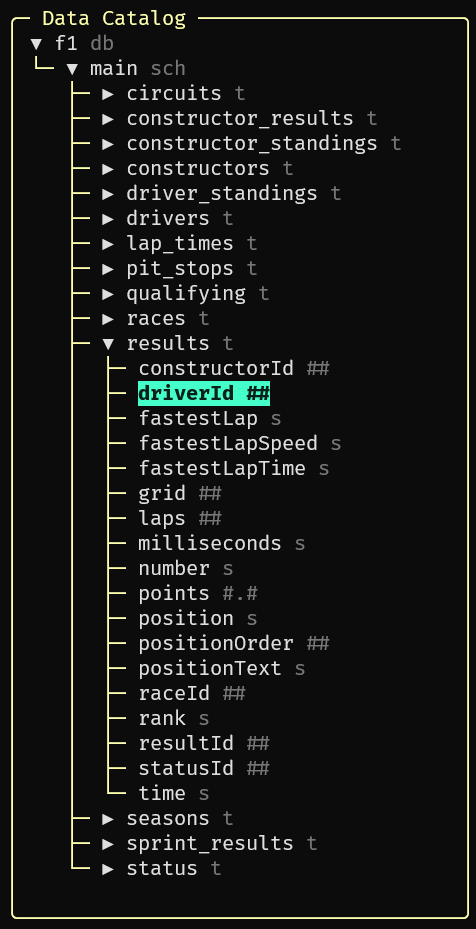
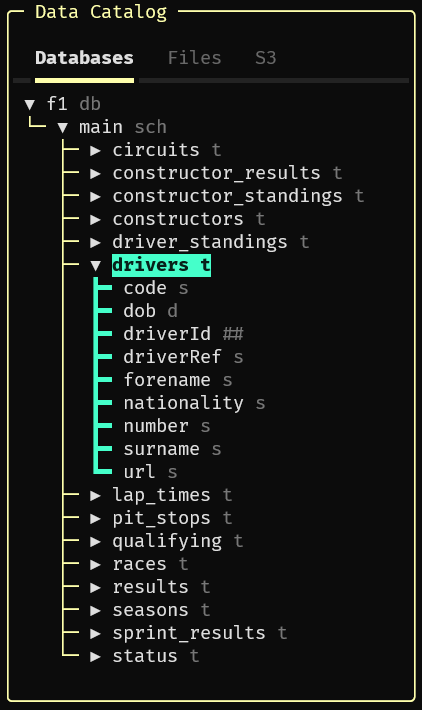
feat: add file tree and s3 tree docs (#54)

diff --git a/src/routes/features.svelte b/src/routes/features.svelte
@@ -15,7 +15,7 @@
   <li>
     <Feature
       title="Data Catalog"
-      body="View tables, columns, and their types across one or more attached databases."
+      body="View tables, columns, and their types across one or more attached databases. Optionally view local files or S3 objects."
       src={catalog}
     />
   </li>

diff --git a/src/docs/files/remote.md b/src/docs/files/remote.md
@@ -1,0 +1,88 @@
+---
+title: Remote Objects (S3)
+menuOrder: 4
+---
+
+## Installation
+
+Before viewing remote objects, you must install the `boto3` package in the same environment as Harlequin. You can do this by installing Harlequin with the `s3` extra:
+
+```bash
+pip install harlequin[s3]
+```
+
+## Compatibility
+
+Harlequin works with any object storage system that provides an S3-compatible API, including Amazon S3, Google Cloud Storage, and Minio; basically, if you can query the storage with `boto3` and manage credentials with the AWS CLI, Harlequin can display your files.
+
+## Authentication
+
+Harlequin relies on the AWS CLI credential toolchain for authentication. Specifically, it will attempt to connect to your storage using whatever credentials are currently active (or default) in your AWS CLI config, **including the region**. You can use the credentials from another profile by setting the `AWS_PROFILE` environment variable.
+
+For Google Cloud Storage please see [the docs](https://cloud.google.com/storage/docs/authentication/hmackeys) on the XML API and HMAC authentication. After generating HMAC Keys, you can use the AWS CLI (`aws configure`) to store these keys in a profile accessible to Harlequin.
+
+Your user must have `ListObjects` or the equivalent permission to view a bucket's objects in Harlequin.
+
+Currently this is not configurable; if that doesn't work for you, please [open an issue](https://github.com/tconbeer/harlequin/issues/new/choose).
+
+## Usage
+
+Harlequin will display the remote tree if it is initialized with the `--show-s3` option (alias `--s3`). This option takes a reference to remote object storage.
+
+### Displaying All Buckets
+
+Use Harlequin with `--show-s3 all` to display all Amazon S3 buckets that the authenticated user has access to. (This is not advised if you have access to millions of objects in S3):
+
+```bash
+harlequin --show-s3 all
+```
+
+For GCS or another endpoint that supports `ListBuckets`, provide the endpoint url without a path:
+
+```bash
+harlequin --show-s3 "https://storage.googleapis.com"
+```
+
+### Displaying a Single Bucket
+
+Use `--show-s3` with an argument that represents a bucket and (optionally) an endpoint url and key prefix:
+
+```bash
+harlequin --show-s3 my-bucket
+```
+
+```bash
+harlequin --show-s3 my-bucket/my-prefix
+```
+
+A one-liner to set the AWS Profile and connect to a GCS bucket, filtering for a prefix:
+
+```bash
+AWS_PROFILE=gcs harlequin --s3 "https://storage.googleapis.com/my-gcs-bucket/my-prefix"
+```
+
+Harlequin takes any of the following formats:
+
+```
+# Amazon S3 Formats
+all
+my-bucket
+my-bucket/my-prefix
+s3://my-bucket
+s3://my-bucket/my-prefix
+https://s3.amazonaws.com/my-bucket
+https://s3.amazonaws.com/my-bucket/my-prefix
+https://my-bucket.s3.amazonaws.com
+https://my-bucket.s3.amazonaws.com/my-prefix
+
+# Google Cloud Storage Formats
+https://storage.googleapis.com
+https://storage.googleapis.com/my-bucket
+https://storage.googleapis.com/my-bucket/my-prefix
+https://my-bucket.storage.googleapis.com
+https://my-bucket.storage.googleapis.com/my-prefix
+
+# Minio, AWS PrivateLink, etc.
+https://my-storage.com/my-bucket/
+https://my-storage.com/my-bucket/my-prefix
+```

diff --git a/src/docs/bindings.md b/src/docs/bindings.md
@@ -17,6 +17,7 @@ menuOrder: 200
 - <Key>F9</Key>, <Key>ctrl+b</Key> Toggle the sidebar.
 - <Key>F10</Key> Toggle full screen mode for the current widget.
 - <Key>ctrl+e</Key> Write the returned data to a CSV, Parquet, or JSON file.
+- <Key>ctrl+r</Key> Refresh the Data Catalog.
 
 ## Query Editor Bindings
 
@@ -83,8 +84,15 @@ _With the autocomplete list open:_
 
 ## Data Catalog Bindings
 
-- <Key>enter</Key> Select the current item.
-- <Key>space</Key> Toggle the expand/collapses state of the current item.
-- <Key>up</Key> Move the cursor up.
-- <Key>down</Key> Move the cursor down.
-- <Key>ctrl+enter</Key>, <Key>ctrl+j</Key> Insert the current name into the Query Editor.
+- <Key>ctrl+enter</Key>,<Key>ctrl+j</Key> Insert the current name into the Query Editor.
+- <Key>ctrl+c</Key> Copy the current name to the clipboard.
+
+### Switching Tabs
+
+- <Key>j</Key> Switch to the previous tab.
+- <Key>k</Key> Switch to the next tab.
+
+### Moving the Cursor
+
+- <Key>up</Key>,<Key>down</Key> Move the cursor one row.
+- <Key>enter</Key>,<Key>space</Key> Toggle the expand/collapsed state of the current item.

diff --git a/src/docs/files/index.md b/src/docs/files/index.md
@@ -1,0 +1,25 @@
+---
+title: Viewing Files
+menuOrder: 2
+---
+
+<script>
+    import Key from "$lib/components/key.svelte"
+    import file_tree from "$lib/assets/docs/file-tree.png"
+</script>
+
+Harlequin's Data Catalog optionally displays file trees for either local files or remote objects stored in Amazon S3 (or another object storage service that provides an S3-compatible API.)
+
+To view the file tree, use your mouse to select the "Files" tab, or focus on the Data Catalog with <Key>F6</Key> and then switch tabs with <Key>k</Key> or <Key>j</Key>. Insert file paths into the query editor with <Key>ctrl+enter</Key> or <Key>ctrl+j</Key>, or copy them to the clipboard with <Key>ctrl+c</Key>.
+
+<div class="flex flex-wrap justify-center py-2">
+    <figure>
+        <img src={file_tree} alt="Example of the file tree."  class="h-auto w-full max-h-80">
+        <figcaption class="text-center text-sm text-purple font-bold">Example of the file tree.</figcaption>
+    </figure>
+</div>
+
+Keep reading for:
+
+1. [Local Files](local)
+2. [Remote Objects (S3)](remote)

diff --git a/src/docs/getting-started.md b/src/docs/getting-started.md
@@ -15,7 +15,15 @@ After installing Python 3.8 or above, install Harlequin using `pip` or `pipx` wi
 pipx install harlequin
 ```
 
+You may want to install Harlequin with one or more extras, which provide additional features like [additional database support](adapters) or [remote file viewing](files/remote). That would look like this:
+
+```bash
+pipx install harlequin[postgres,s3]
+```
+
 ## Using Harlequin with DuckDB
+
+Harlequin defaults to using its DuckDB database adapter.
 
 From any shell, to open one or more DuckDB database files:
 

diff --git a/src/docs/files/local.md b/src/docs/files/local.md
@@ -1,0 +1,18 @@
+---
+title: Local Files
+menuOrder: 3
+---
+
+Harlequin's Data Catalog will show remote files in a second tab in the Data Catalog if Harlequin is initialized with the `--show-files` option (alias `-f`). `--show-files` takes an absolute or relative file path to a directory as its argument:
+
+For example, an absolute path:
+
+```bash
+harlequin --show-files /path/to/my/data
+```
+
+For the current working directory:
+
+```bash
+harlequin -f .
+```

diff --git a/src/docs/themes.md b/src/docs/themes.md
@@ -1,6 +1,6 @@
 ---
 title: Choosing a Theme
-menuOrder: 2
+menuOrder: 5
 ---
 
 You can set a theme for Harlequin, passing the name of any [Pygments style](https://pygments.org/styles/) to the `--theme` or `-t` option.

diff --git a/src/docs/config-file.md b/src/docs/config-file.md
@@ -1,6 +1,6 @@
 ---
 title: Using Config Files
-menuOrder: 3
+menuOrder: 6
 ---
 
 <script>
